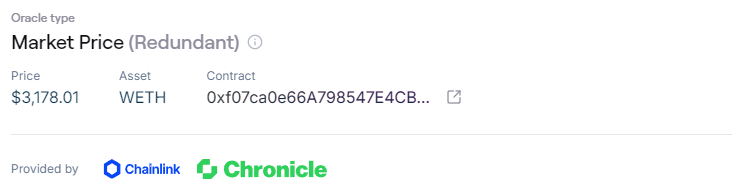
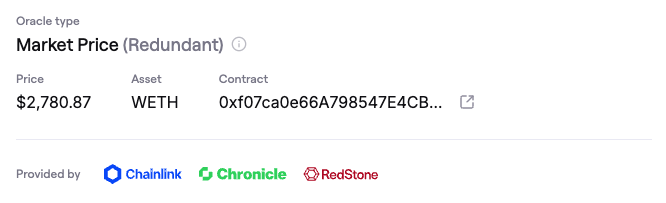
feat: add redstone to oracle docs

diff --git a/docs/pages/user-guides/using-sparklend/oracles.md b/docs/pages/user-guides/using-sparklend/oracles.md
@@ -8,7 +8,7 @@ SparkLend uses oracle price feeds to power its lending markets. Depending on the
 
 ## Oracle Providers
 
-SparkLend uses [Chronicle](https://chroniclelabs.org/) and [Chainlink](https://chain.link/) as the main oracle providers for the lending markets. You can see which Oracle is used for the specific market on the [Markets page](#where-can-i-check-what-oracle-is-being-used).
+SparkLend uses [Chronicle](https://chroniclelabs.org/), [Chainlink](https://chain.link/) and [RedStone](https://www.redstone.finance/) as oracle providers for the lending markets. You can see which Oracle is used for the specific market on the [Markets page](#where-can-i-check-what-oracle-is-being-used).
 
 ## Where can I check what Oracle is being used?
 
@@ -52,5 +52,5 @@ For a Yielding Fixed oracle, the asset price is calculated using both an exchang
 
 ## Redundant Oracle Feeds
 
-For certain assets SparkLend uses oracle price feeds from both Chronicle and Chainlink, ensuring that in the unlikely event one price feed should fail, a redundant price feed will automatically be used. Finally, in the extremely unlikely event that price feeds from both Chronicle and Chainlink should fail at the same time, a Uniswap TWAP (time-weighted average price), is used as a fallback price feed. This ensures maximum protection for SparkLend users. You can see an example of this mechanism above in the Yielding Fixed Oracle used for wstETH. \
+For certain assets SparkLend uses oracle price feeds from both Chronicle, Chainlink and RedStone, ensuring that in the unlikely event one price feed should fail, a redundant price feed will automatically be used. Finally, in the extremely unlikely event that price feeds from Chronicle, Chainlink and RedStone should fail at the same time, a Uniswap TWAP (time-weighted average price), is used as a fallback price feed. This ensures maximum protection for SparkLend users. You can see an example of this mechanism above in the Yielding Fixed Oracle used for wstETH. \
 You can check if an asset uses redundant price feeds, by checking if it says "Redundant" in its Oracle type, on the specific Market page. [See here where to check the oracle type.](#where-can-i-check-what-oracle-is-being-used)
